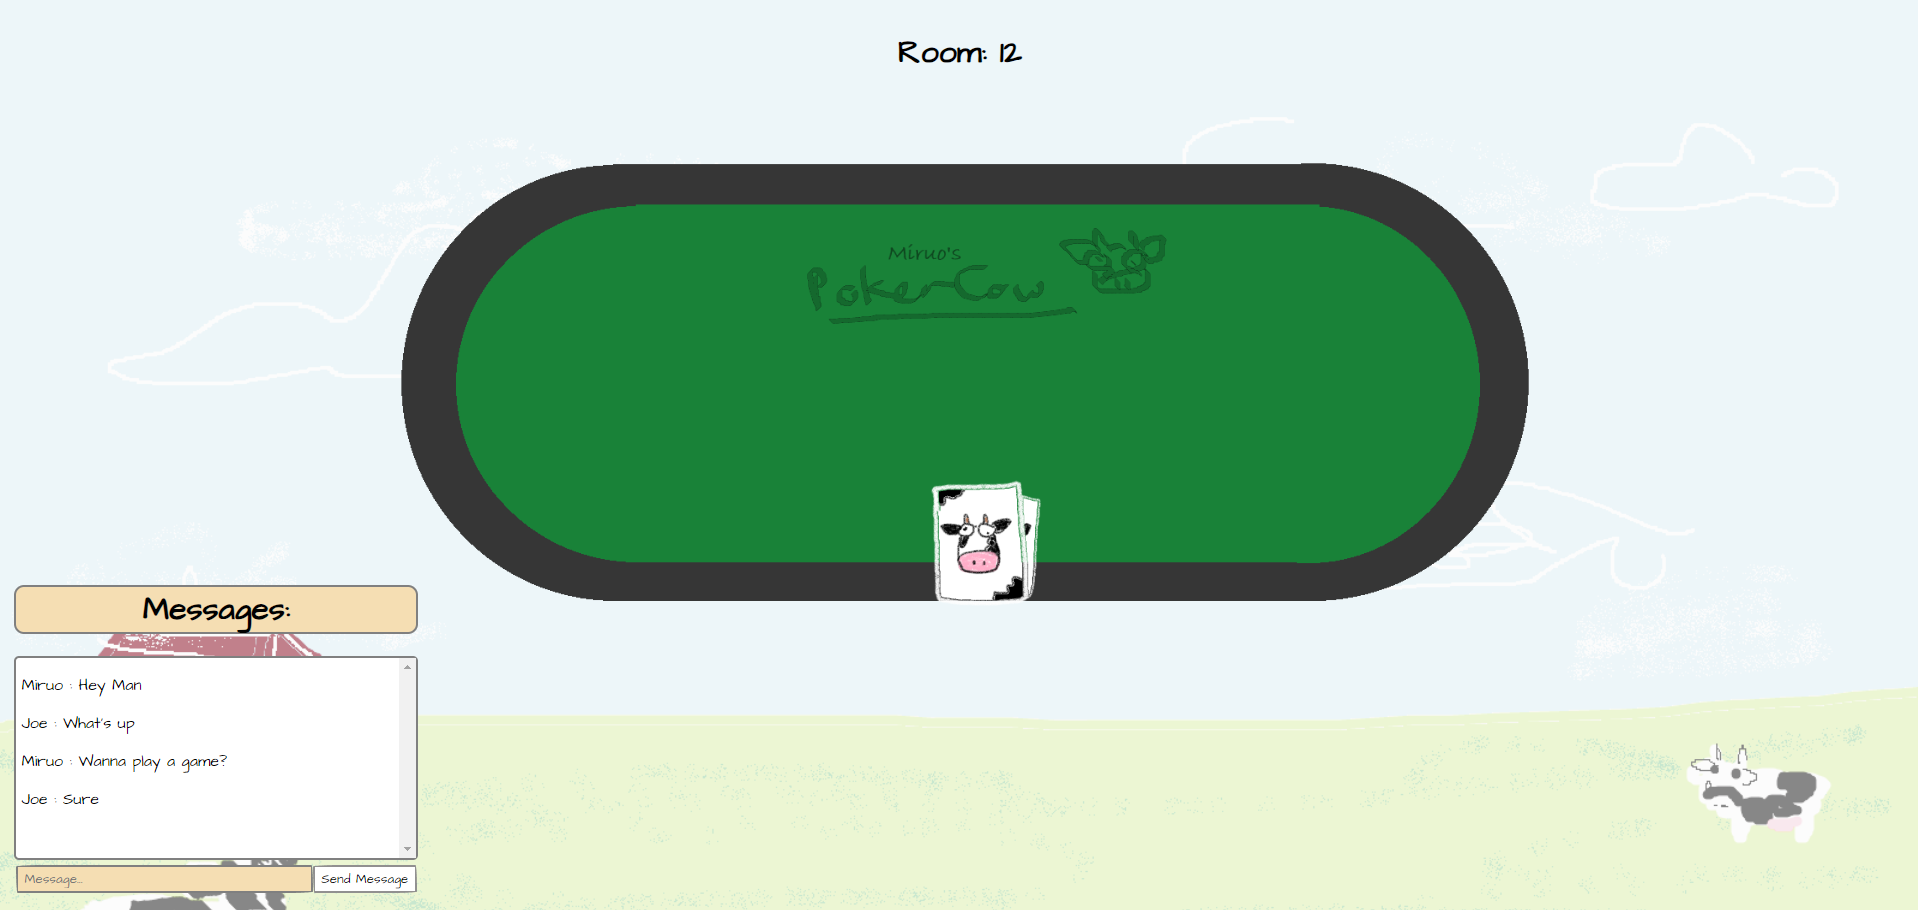
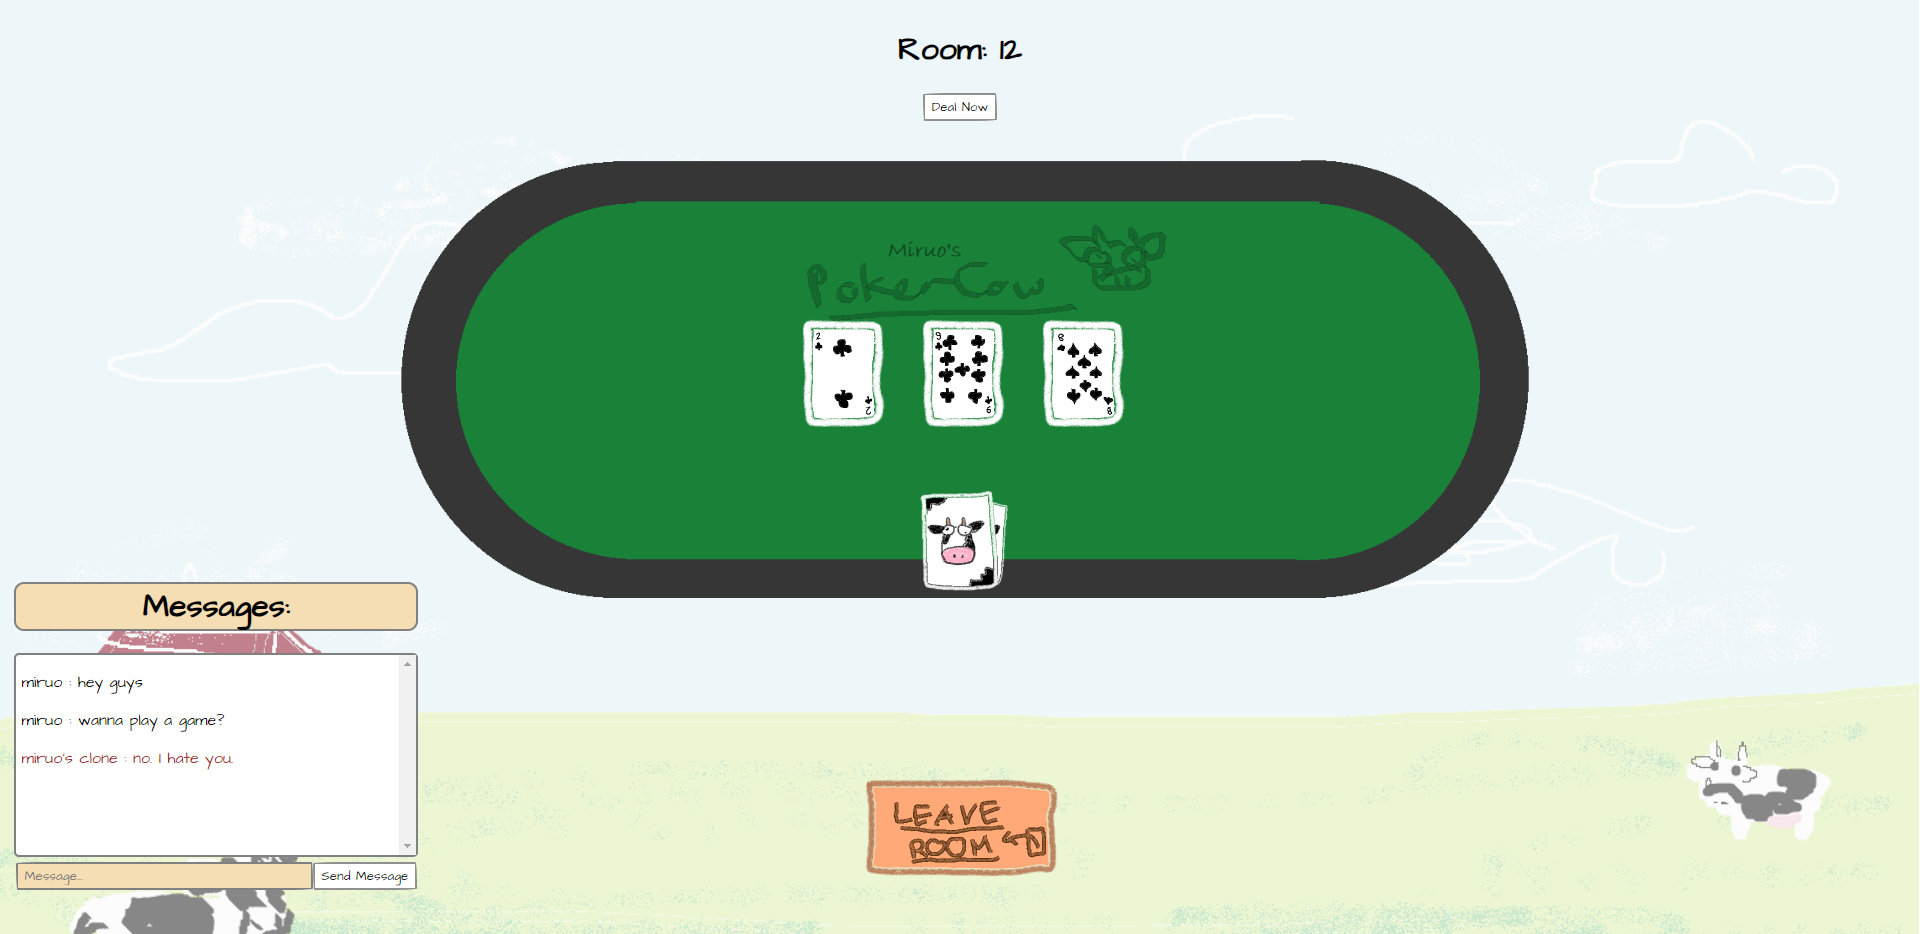
Updated flop and screencap

diff --git a/client/pokercow/src/components/Game.js b/client/pokercow/src/components/Game.js
@@ -4,6 +4,7 @@ import table from "../assets/Table.png";
 import handback from "../assets/handback.png";
 import "../styles/Game.css";
 
+import ace_s from "../assets/cards/as.png";
 import two_s from "../assets/cards/2s.png";
 import three_s from "../assets/cards/3s.png";
 import four_s from "../assets/cards/4s.png";
@@ -16,8 +17,49 @@ import ten_s from "../assets/cards/10s.png";
 import jack_s from "../assets/cards/js.png";
 import queen_s from "../assets/cards/qs.png";
 import king_s from "../assets/cards/ks.png";
-import ace_s from "../assets/cards/as.png";
-import sevenh from "../assets/cards/7h.png";
+
+import ace_d from "../assets/cards/ad.png";
+import two_d from "../assets/cards/2d.png";
+import three_d from "../assets/cards/3d.png";
+import four_d from "../assets/cards/4d.png";
+import five_d from "../assets/cards/5d.png";
+import six_d from "../assets/cards/6d.png";
+import seven_d from "../assets/cards/7d.png";
+import eight_d from "../assets/cards/8d.png";
+import nine_d from "../assets/cards/9d.png";
+import ten_d from "../assets/cards/10d.png";
+import jack_d from "../assets/cards/jd.png";
+import queen_d from "../assets/cards/qd.png";
+import king_d from "../assets/cards/kd.png";
+
+import ace_c from "../assets/cards/ac.png";
+import two_c from "../assets/cards/2c.png";
+import three_c from "../assets/cards/3c.png";
+import four_c from "../assets/cards/4c.png";
+import five_c from "../assets/cards/5c.png";
+import six_c from "../assets/cards/6c.png";
+import seven_c from "../assets/cards/7c.png";
+import eight_c from "../assets/cards/8c.png";
+import nine_c from "../assets/cards/9c.png";
+import ten_c from "../assets/cards/10c.png";
+import jack_c from "../assets/cards/jc.png";
+import queen_c from "../assets/cards/qc.png";
+import king_c from "../assets/cards/kc.png";
+
+import ace_h from "../assets/cards/ah.png";
+import two_h from "../assets/cards/2h.png";
+import three_h from "../assets/cards/3h.png";
+import four_h from "../assets/cards/4h.png";
+import five_h from "../assets/cards/5h.png";
+import six_h from "../assets/cards/6h.png";
+import seven_h from "../assets/cards/7h.png";
+import eight_h from "../assets/cards/8h.png";
+import nine_h from "../assets/cards/9h.png";
+import ten_h from "../assets/cards/10h.png";
+import jack_h from "../assets/cards/jh.png";
+import queen_h from "../assets/cards/qh.png";
+import king_h from "../assets/cards/kh.png";
+
 
 
 import leaveroom from "../assets/leaveroom.png";
@@ -27,18 +69,70 @@ function Game({ socket, room, messagesReceived, setMessagesReceived, message, se
 
     const deck_refs = {
         "ace_s": ace_s,
-        "king_s": king_s
+        "two_s": two_s,
+        "three_s": three_s,
+        "four_s": four_s,
+        "five_s": five_s,
+        "six_s": six_s,
+        "seven_s": seven_s,
+        "eight_s": eight_s,
+        "nine_s": nine_s,
+        "ten_s": ten_s,
+        "jack_s": jack_s,
+        "queen_s": queen_s,
+        "king_s": king_s,
+        "ace_c": ace_c,
+        "two_c": two_c,
+        "three_c": three_c,
+        "four_c": four_c,
+        "five_c": five_c,
+        "six_c": six_c,
+        "seven_c": seven_c,
+        "eight_c": eight_c,
+        "nine_c": nine_c,
+        "ten_c": ten_c,
+        "jack_c": jack_c,
+        "queen_c": queen_c,
+        "king_c": king_c,
+        "ace_d": ace_d,
+        "two_d": two_d,
+        "three_d": three_d,
+        "four_d": four_d,
+        "five_d": five_d,
+        "six_d": six_d,
+        "seven_d": seven_d,
+        "eight_d": eight_d,
+        "nine_d": nine_d,
+        "ten_d": ten_d,
+        "jack_d": jack_d,
+        "queen_d": queen_d,
+        "king_d": king_d,
+        "ace_h": ace_h,
+        "two_h": two_h,
+        "three_h": three_h,
+        "four_h": four_h,
+        "five_h": five_h,
+        "six_h": six_h,
+        "seven_h": seven_h,
+        "eight_h": eight_h,
+        "nine_h": nine_h,
+        "ten_h": ten_h,
+        "jack_h": jack_h,
+        "queen_h": queen_h,
+        "king_h": king_h,
     }
 
     const [peek, setPeek] = useState(false);
     const [leaving, setLeaving] = useState(false);
     const [running, setRunning] = useState(false);
     const [hand, setHand] = useState([]);
+    const [flop, setFlop] = useState([]);
 
     useEffect(() => {
         socket.on("receive_game_start", (data) => {
             setHand([data.playerHand1, data.playerHand2]);
-            console.log(hand)
+            setFlop(data.flop);
+            console.log(hand);
             setRunning(true);
         });
     }, [])
@@ -53,7 +147,7 @@ function Game({ socket, room, messagesReceived, setMessagesReceived, message, se
     function sendMessage(event) {
         event.preventDefault();
         socket.emit("send_message", { message, room, playerName });
-        setMessagesReceived([...messagesReceived, {class:"message_sending", message:`${playerName} : ${message}`}]);
+        setMessagesReceived([...messagesReceived, { class: "message_sending", message: `${playerName} : ${message}` }]);
         setMessage("");
     }
 
@@ -71,8 +165,8 @@ function Game({ socket, room, messagesReceived, setMessagesReceived, message, se
         setLeaving(false);
     }
 
-    function startGame(){
-        socket.emit("start_game", {room});
+    function startGame() {
+        socket.emit("start_game", { room });
     }
 
     return (
@@ -96,6 +190,13 @@ function Game({ socket, room, messagesReceived, setMessagesReceived, message, se
                     </form>
                 </div>
                 <img className="pokertable" src={table} alt="pokertable"></img>
+                {running &&
+                    <div className="flop">
+                        <img alt="flop-1" className="card" src={deck_refs[flop[0]]}></img>
+                        <img alt="flop-2" className="card" src={deck_refs[flop[1]]}></img>
+                        <img alt="flop-3" className="card" src={deck_refs[flop[2]]}></img>
+                    </div>
+                }
                 {running && <>
                     {!peek && <img className="handback" src={handback} onMouseEnter={peekHand}
                     ></img>}
@@ -107,7 +208,7 @@ function Game({ socket, room, messagesReceived, setMessagesReceived, message, se
                 }
                 {!leaving && <img className="leaveroom" src={leaveroom} alt="leave-room" onMouseEnter={handleLeaving}></img>}
                 {leaving && <img className="leaveroom" src={leaveroom_hover} alt="leave-room" onClick={handleLeaveRoom} onMouseLeave={handleNotLeaving}></img>}
-                {!running && <button onClick={startGame}>Deal Now</button>}
+                {<button onClick={startGame}>Deal Now</button>}
             </div>}
         </>
     )

diff --git a/server/index.js b/server/index.js
@@ -31,23 +31,30 @@ io.on("connection", (socket)=>{
     socket.on("start_game", (data)=>{
         let gameDeck = deckData.deck;
         
-        let hand = {
+        let roundData = {
             playerHand1:"ace_s",
-            playerHand2:"king_s"
+            playerHand2:"king_s",
+            flop: [],
         };
 
-        // const randomCard1 = gameDeck[Math.floor(Math.random() * gameDeck.length)];
-        // hand.playerHand1 = randomCard1.id;
-        // gameDeck.splice(randomCard1, 1);
+        const randomCard1 = Math.floor(Math.random() * gameDeck.length);
+        roundData.playerHand1 = gameDeck[randomCard1].id;
+        gameDeck.splice(randomCard1, 1);
+        const randomCard2 = Math.floor(Math.random() * gameDeck.length);
+        roundData.playerHand2 = gameDeck[randomCard2].id;
+        gameDeck.splice(randomCard2, 1);
 
-        // const randomCard2 = gameDeck[Math.floor(Math.random() * gameDeck.length)];
-        // hand.playerHand2 = randomCard2.id;
-        // gameDeck.splice(randomCard2, 1);
+        //Flop
+        for (let i = 0; i<3; i++){
+            let randomCard = Math.floor(Math.random() * gameDeck.length);
+            roundData.flop.push(gameDeck[randomCard].id);
+            gameDeck.splice(randomCard, 1);
+        };
 
-        console.log(hand);
+        console.log(roundData);
 
-        socket.to(data.room).emit("receive_game_start", hand);
-        socket.emit("receive_game_start", hand);
+        socket.to(data.room).emit("receive_game_start", roundData);
+        socket.emit("receive_game_start", roundData);
     });
 })
 

diff --git a/client/pokercow/src/styles/Game.css b/client/pokercow/src/styles/Game.css
@@ -50,25 +50,32 @@
 
 .handback{
     cursor: pointer;
-    max-width: 150px;
+    max-width: 120px;
     position: absolute;
-    top: 55%;
+    top: 58%;
     left: 50%;
     transform: translate(-50%, -50%);
-}
-
-.card {
-    max-height: 200px;
-    max-width: 150px;
-    margin: 0;
 }
 
 .hand {
     position: absolute;
-    top: 55%;
+    top: 58%;
     left: 50%;
     transform: translate(-50%, -50%);
     display: flex;
+}
+
+.flop{
+    position: absolute;
+    top: 40%;
+    left: 50%;
+    transform: translate(-50%, -50%);
+    display: flex;
+}
+
+.card {
+    max-width: 120px;
+    margin: 0;
 }
 
 .leaveroom{
